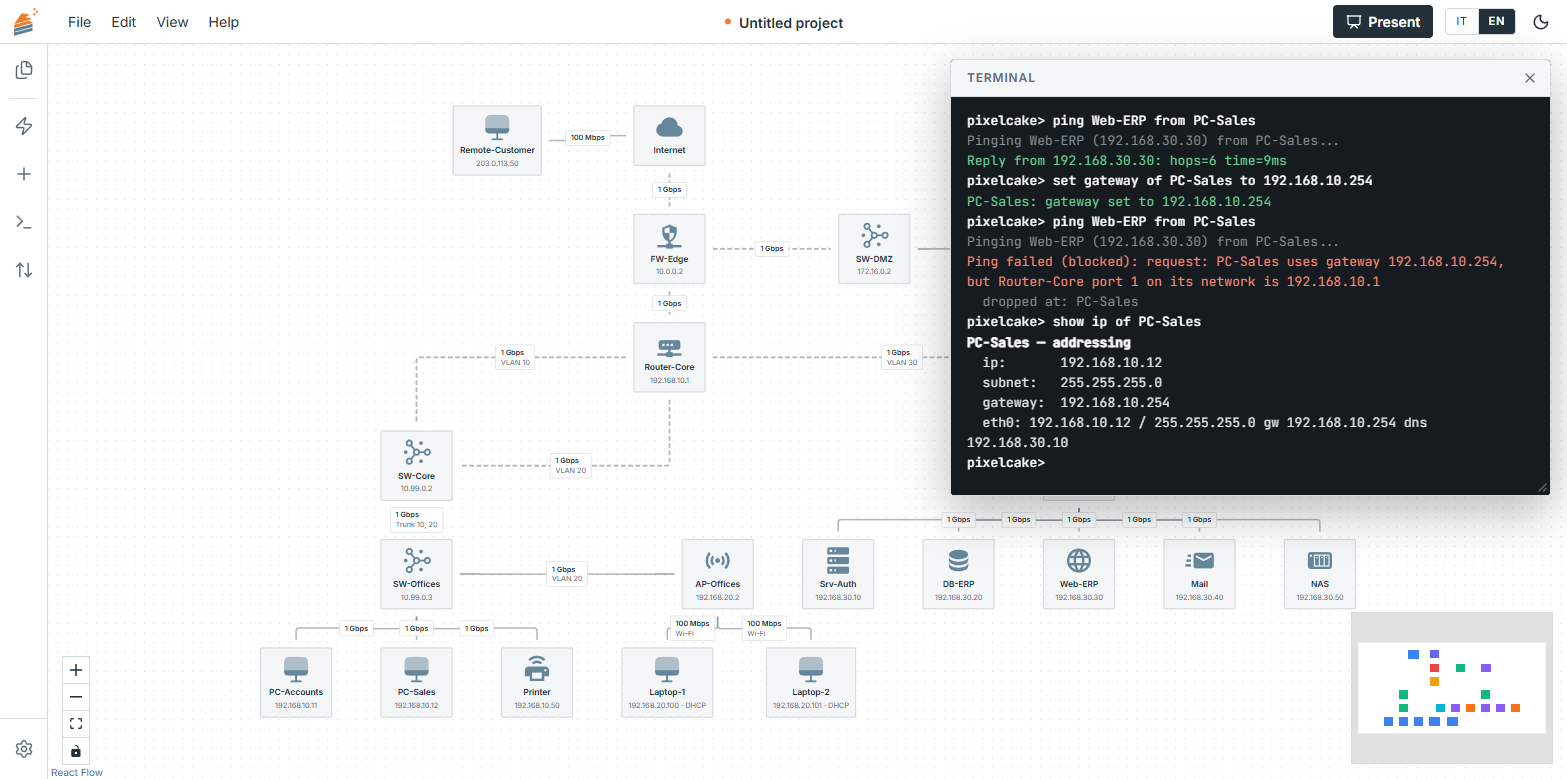
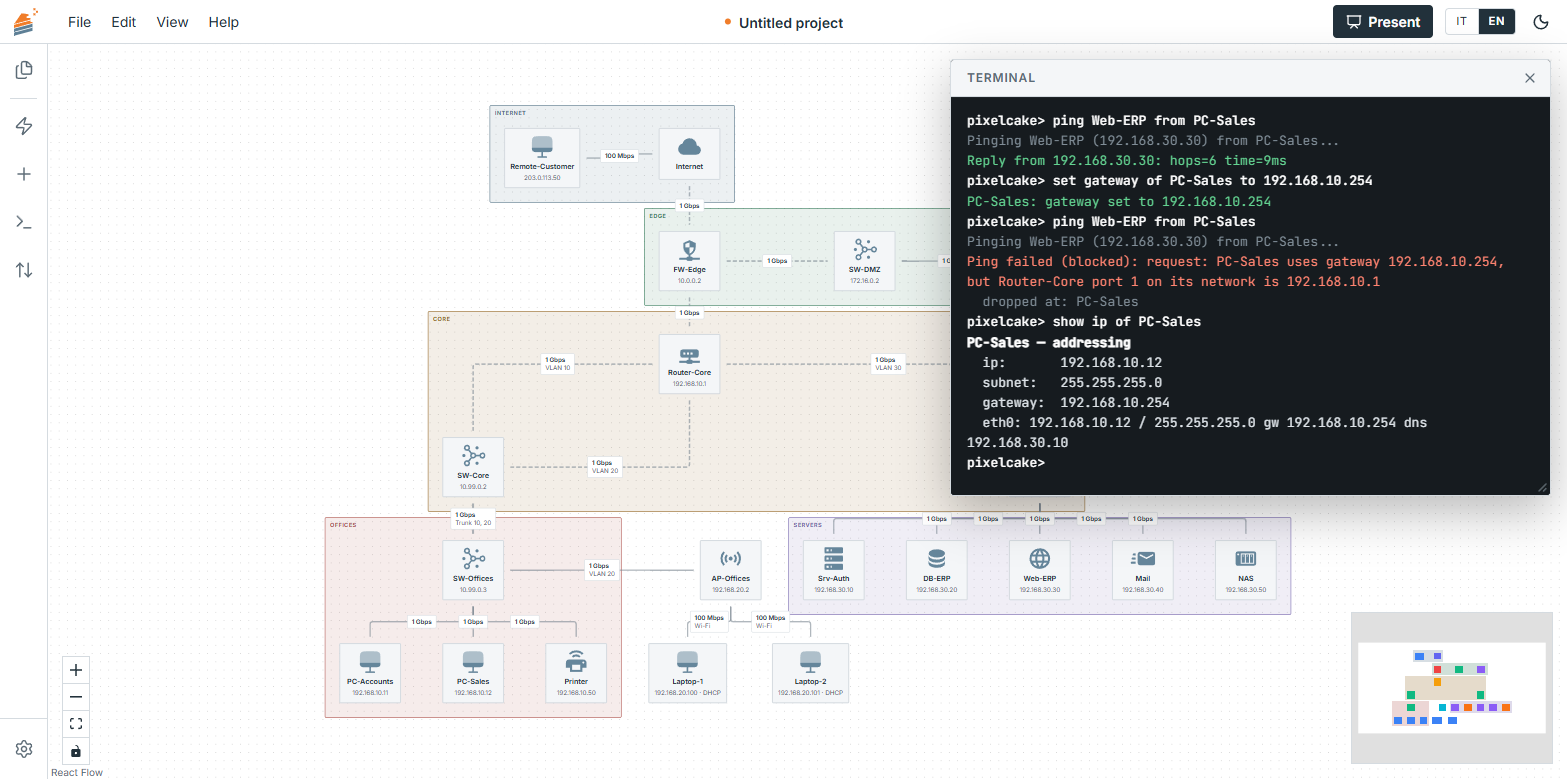
The documents describe what a sample brings, and the pictures of the README are taken again with the areas of the samples

diff --git a/CHANGELOG.md b/CHANGELOG.md
@@ -16,6 +16,8 @@ and this project adheres to [Semantic Versioning](https://semver.org/spec/v2.0.0
 - **More that did nothing**: the Inspector tab announcing Terraform fields, the terminal's Minimize and Maximize dots, two Terraform fields on custom templates, a click-to-connect mode and two windows nothing opened.
 
 ### Added
+- **A sample network brings the settings of its project.** Loading one used to replace the drawing and leave the network settings as they were: on the company sample a new device was offered 192.168.1.2, an address of no network of the drawing. Now each sample sets them to its own: the network new devices start from and its gateway (the company: 192.168.10.0, gateway 192.168.10.1), its DNS server when it has one (192.168.30.10), a name for every VLAN it uses, in the language of the moment. The question asked before a sample replaces a drawing says so, in both languages.
+- **The samples come with their areas.** The company has five (Internet, Edge, Core, Offices, Servers), the site three (Internet, the DMZ, the internal network), the two sites two (the head office, the branch); the small office has none. An area of a sample is worked out from where its devices are, with the margins of «Racchiudi in un riquadro», so that it follows them when their size changes; the rows of the company are a little further apart, so that no two areas touch.
 - **Two languages: Italian and English.** Every text of the interface is in both: menus, windows, tooltips, placeholders, what a screen reader says, notices, questions, error messages, the guide, the welcome screen, presentation mode, the words written into an exported image. `IT` / `EN` on the menu bar, next to the theme, change it at once, with no reload and without losing what is on screen; the same switch is on the bar of the presentation, on the welcome screen and in Impostazioni → Aspetto. The choice is kept in the browser (`pixelcake-language`). On a first visit the app is in Italian in a browser set to Italian and in English in any other (the first language of the visitor that the interface speaks); `?lang=it` or `?lang=en` in the address chooses it, and is remembered. `<html lang>` follows. What a person wrote never changes. A name the app gives (a project without a name, a new canvas, a new area, the devices of a sample network) is given in the language of that moment and stays: a sample network loaded in English has `PC-Sales`, `Laptop-1`, `Customer-Portal` where the Italian one has `PC-Vendite`, `Portatile-1`, `Portale-Clienti`. The terminal and the reasons of the engine are English in both languages, as before. The words live in two typed dictionaries (`frontend/src/i18n/`): an English entry that is missing does not compile, and tests fail on Italian written straight into a component, on an English entry left in Italian, and on Italian left on a screen switched to English. The Italian is what it was, word for word; the only new Italian sentences are about the language itself (the last step of the guide, the group «Lingua» in Impostazioni → Aspetto). In the presentation panel the names of the two ends of a question share a column as wide as the longer word.
 - **Areas on the canvas («riquadri»).** A rectangle with a short name in a corner, drawn behind a group of devices to say what they are: Core, Edge, Uffici, Internet. An area is a light tint of one of six calm colours, with a thin border of the same colour and its name in small capitals; devices and cables are over it. It is added from the panel «Aggiungi» («Riquadro», in the middle of the view) or around the selected devices («Racchiudi in un riquadro», in Modifica and in the right-click menu of a device), and its name is typed at once. It is taken by its name or by its border: a press selects it, a drag moves it, eight handles resize it, a double click on the name renames it, the right button opens a menu (rename, colour, delete) and the Delete key deletes it. Moving an area moves no device. Its inside is not in the way: a selection box drawn there takes the devices and never the area, and selecting, copying, pasting and deleting devices are as they were. Presentation mode shows the areas and lets nothing be done to them; the small map shows them as faint rectangles; the exported image draws them, in light and in dark. They belong to their canvas and travel with it: in the browser, through a canvas switch, in the project file (`areas`, left out of a canvas that has none: a file without them opens as before). The YAML export, which has no places, does not carry them. The sample networks have none.
 - **Names for the VLANs, at project level.** A VLAN was a number everywhere. Impostazioni → Rete has a group «VLAN del progetto»: a table of number and name, which lists by itself the VLANs the canvas uses that have no name yet, so that they are named in one go; «Aggiungi VLAN» adds a row for any other, and the button at the end of a row takes a name away. One name for a VLAN, 32 characters at most; a number that is not a VLAN, a number given twice and a name left out are said under the row and stop the save, which is the one of the tab. Once saved, the name is written next to the number wherever the interface shows the number: the summary of a switch on «Generale» (`VLAN 10 «Uffici»: porte 1–3`, and what each trunk carries), under the VLAN field of a port, in what a port says under the pointer, on the tags of the VLANs of a device. A VLAN without a name shows as before. The names travel in the project file (`settings.vlans`); a file without them opens as before. The engine, the terminal and their English messages keep the numbers.

diff --git a/README.md b/README.md
@@ -9,7 +9,7 @@
 
 PixelCake is a browser-based designer for small networks. You draw the network, configure it, then ask it a question: does this PC reach that server? If it does not, you see where the traffic stops and why.
 
-![The sample network of a small company with the terminal: a ping from PC-Sales to Web-ERP that works; the gateway of PC-Sales set to a wrong address; the same ping stopped at PC-Sales, with the reason; then the addresses of PC-Sales](docs/screenshot.png)
+![The sample network of a small company, its groups of devices in areas (Internet, Edge, Core, Offices, Servers), with the terminal: a ping from PC-Sales to Web-ERP that works; the gateway of PC-Sales set to a wrong address; the same ping stopped at PC-Sales, with the reason; then the addresses of PC-Sales](docs/screenshot.png)
 
 **Status:** early prototype. It is good for exploring and explaining a small network. Do not use its answers to validate a real one: the [limits](#what-it-does-not-do) are listed below.
 
@@ -27,6 +27,8 @@ PixelCake is a browser-based designer for small networks. You draw the network, 
 The interface is in Italian and in English. It starts in Italian in a browser set to Italian and in English in any other, and `IT` / `EN` on the menu bar (and on the welcome screen, and in Settings → Appearance) change it at once; the choice is kept in the browser. `?lang=it` or `?lang=en` in the address chooses it too. The terminal language is English in both. This page names menus and buttons as the English interface does.
 
 Four sample networks are bundled. The welcome screen loads the first: a small company, with offices and Wi-Fi in two VLANs on one trunk, an access point, a switch of servers, a public portal in a DMZ and a firewall with three rules that does NAT towards the Internet. The router hands out the addresses of the offices and of the Wi-Fi, and the two laptops take theirs from it. One of the servers is the DNS server of the inside: it knows the management software, the mail server and the portal by name. It is also under Add → Samples, with the other three: a small office with two subnets and a router; a site with VLANs, a DMZ and a firewall; and two sites joined by a main line and a backup line, made for trying failures.
+
+A sample sets the network settings of the project to its own (Settings → Network): the network new devices start from and its gateway, the DNS server when it has one, a name for each of its VLANs. A device added afterwards is offered an address of the sample's network. All but the small office come with their areas, the rectangles that say what a group of devices is: Internet, Edge, Core, Offices and Servers for the company; Internet, the DMZ and the internal network for the site; the head office and the branch for the two sites.
 
 ### The terminal
 
@@ -116,7 +118,7 @@ Lookup failed: Remote-Customer has no DNS server: it cannot look up portal.compa
 
 ### What happens if this breaks
 
-![Presentation mode on the sample with two sites: the main line between R-HQ and R-Branch is cut, the ping from PC-Branch-1 still reaches Srv-File through R-Backup, and the panel counts twelve exchanges that take another path and none that stop](docs/presentation.png)
+![Presentation mode on the sample with two sites, the head office and the branch each in its area: the main line between R-HQ and R-Branch is cut, the ping from PC-Branch-1 still reaches Srv-File through R-Backup, and the panel counts twelve exchanges that take another path and none that stop](docs/presentation.png)
 
 In presentation mode a click on a device or on a cable, then “Simulate a failure”, treats it as broken. The drawing is not edited: the failure is a list handed to the engine next to the network, and it is gone when the presentation ends. The question on screen is asked again at once.
 
@@ -133,7 +135,7 @@ When the engine cannot verify something, it says so in a note instead of answeri
 
 ### The drawing as an image
 
-![The screen above as an exported image: the whole board under the name of the project, the path of the answer in green through R-Backup, the cut line in red, and under the drawing the question, its answer, the simulated failure and the effect on the other exchanges](docs/export.png)
+![The screen above as an exported image: the whole board under the name of the project, with its two areas, the path of the answer in green through R-Backup, the cut line in red, and under the drawing the question, its answer, the simulated failure and the effect on the other exchanges](docs/export.png)
 
 **File → Export image…** draws the whole board again as an image. It is not a screenshot: it is made from the same data as the canvas, so it shows every device whatever the zoom, and never a selection or a connection point.
 

diff --git a/ARCHITECTURE.md b/ARCHITECTURE.md
@@ -85,7 +85,7 @@ An area is a rectangle with a label, drawn behind a group of devices to say what
 - **Added** from the panel «Aggiungi» («Riquadro», in the middle of the view) or around the selected devices («Racchiudi in un riquadro», in Modifica and in the menu of a device): `utils/areaActions.ts`, which reads the view and the size of the devices from the screen. A new area is selected, with its name ready to be typed, in the first colour of the palette the canvas does not use
 - **Colours**: six, by name (`slate`, `green`, `amber`, `red`, `violet`, `teal`), each a variable of the theme (`--area-<name>`) with a value in light and in dark, dark or light enough for the label to be read on the tint. The border and the label take the colour, the inside a tenth of it. `AREA_PALETTE` in `utils/canvasAreas.ts` repeats the values for the exported image and the small map; tests hold it to the style sheet
 - **While presenting** an area is shown and nothing else: no handle, no side to take it by, no menu. **The small map** shows it as a faint rectangle of its colour, under the devices. **The exported image** draws the areas first, in the colours of the theme it is made in (`AREA_METRICS` repeats the numbers of the style sheet)
-- The four sample networks have none
+- **The sample networks** come with theirs (`utils/sampleNetwork.ts`): a sample names, for each area, the devices it holds, and `areasAround` works the rectangle out from where they are, with the margins of «Racchiudi in un riquadro» (`areaAround`) and the size a device is drawn with (`estimateDeviceSize`, the numbers of the style sheet). No rectangle is typed: when a device is drawn larger, or moved, its area follows. A test holds that no two areas of a sample cross and that no device is half in one. The small office has none: its two networks are plain without, and the labels of the cables from its router would sit on them
 
 ### Presentation (`frontend/src/components/Presentation/`)
 - **PresentationBar** - Takes the place of the menu bar: project and canvases, pace of the packet, terminal, the image of what is on screen, full screen, the language, the theme, exit (also Esc). In a narrow window what matters less gives way first, so that the tools and the way out stay inside it down to 600 px: the name of the project is cut short, the canvases scroll, below 800 px the badge keeps its symbol alone (its word stays for a screen reader), below 640 px the name of the project goes
@@ -136,7 +136,7 @@ An area is a rectangle with a label, drawn behind a group of devices to say what
 ### Sidebar (`frontend/src/components/Sidebar/`)
 - **Sidebar** - Six buttons. Each shows its name beside it under the pointer or the keyboard; the name is drawn on the page through a portal, because the panel a button opens covers the sidebar's own layer
 - **SimulationPanel** - From, to, what, then the button that sends it. It proposes an exchange from the first PC of the drawing to its first server, and proposes again when what was chosen leaves the drawing
-- **DevicePanel** - The device types to add, each with what it is under its name (`utils/templateText.ts`: a built-in template that is a kind of a type, a printer or an IoT gateway, says what it is and not what it is built on), and, under «Esempi», four sample networks (`utils/sample*.ts`). The first, `sampleCompany.ts`, is the one the welcome screen loads. A sample is fitted to the window when it is loaded
+- **DevicePanel** - The device types to add, each with what it is under its name (`utils/templateText.ts`: a built-in template that is a kind of a type, a printer or an IoT gateway, says what it is and not what it is built on), and, under «Esempi», four sample networks (`utils/sample*.ts`). The first, `sampleCompany.ts`, is the one the welcome screen loads. A sample (`SampleNetwork`, `utils/sampleNetwork.ts`) is its drawing, its areas and the network settings of the project it is made for: `loadSample` in networkStore puts all three in place, every setting included (the network new devices start from and its gateway, the DNS server, a name for each VLAN in use, the mail `auto`), so that a device added afterwards is offered an address of its network. The question asked before a sample replaces a drawing says the settings go too; on an empty canvas nothing is asked. A sample is fitted to the window when it is loaded
 
 ### Explorer Panel (`frontend/src/components/Sidebar/ExplorerPanel.tsx`)
 - Project name and description, editable in place (`components/ui/InlineEdit.tsx`); a hint shows when there are changes not yet saved to a file
